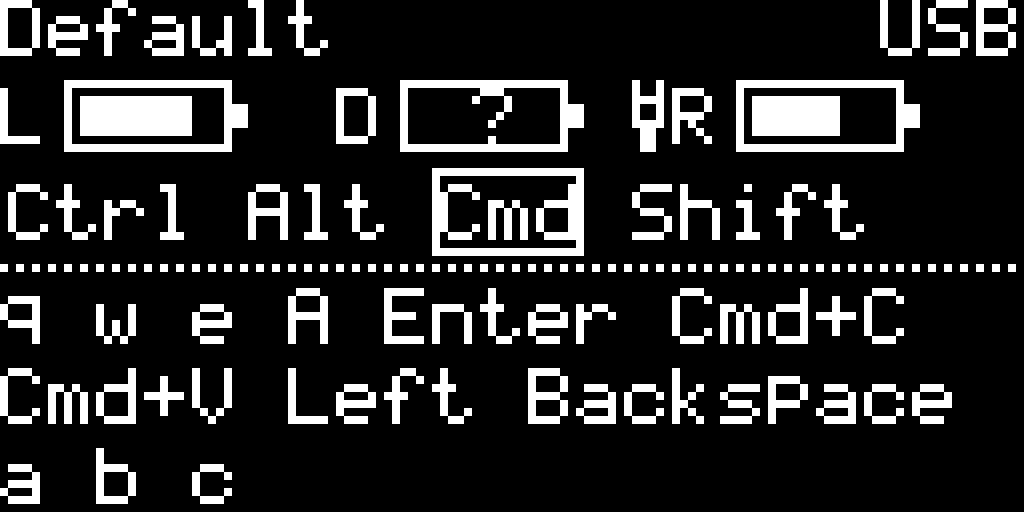
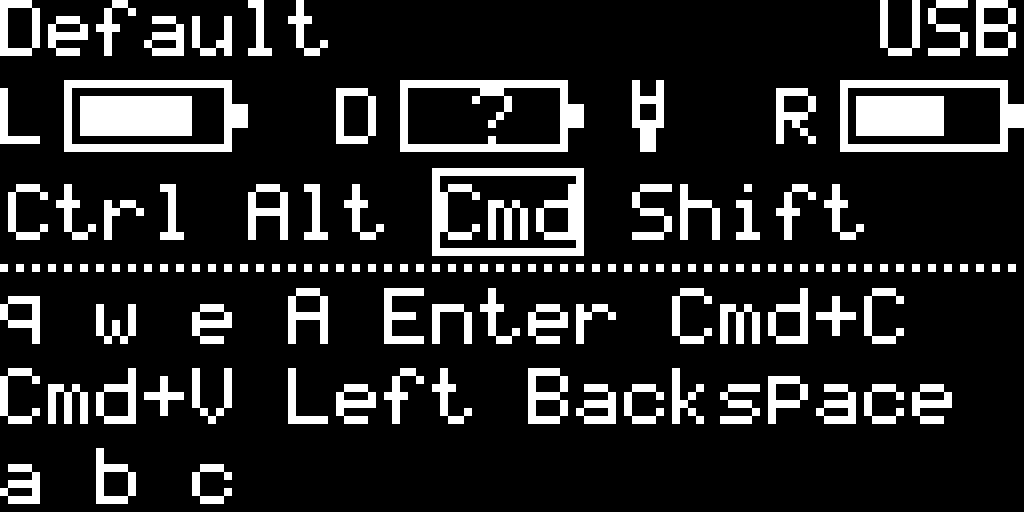
fix: прижать аккумулятор правой половинки к краю экрана

Changed region(s): [[0.6562, 0.1562, 1.0, 0.3125]]

diff --git a/boards/shields/corne_dongle_display/screen_model.c b/boards/shields/corne_dongle_display/screen_model.c
@@ -168,7 +168,10 @@ static void battery(uint8_t *f, int x, char label, struct corne_battery b) {
     } else {
         int level = b.level > 100 ? 100 : b.level;
         rect(f, x+10, 12, (17 * level + 50) / 100, 5, true);
-        if (level <= 20) text(f, x+31, 11, "!", 1);
+        if (level <= 20) {
+            int alert_x = x + 36 <= CORNE_SCREEN_WIDTH ? x + 31 : x - 6;
+            text(f, alert_x, 11, "!", 1);
+        }
     }
 }
 
@@ -181,7 +184,7 @@ void corne_screen_render(const struct corne_screen *s, uint8_t frame[CORNE_FRAME
     text(frame, 128 - (int)strlen(output) * 6, 0, output, 7);
     battery(frame, 0, 'L', s->batteries[0]);
     battery(frame, 42, 'D', s->batteries[1]);
-    battery(frame, 84, 'R', s->batteries[2]);
+    battery(frame, CORNE_SCREEN_WIDTH - 31, 'R', s->batteries[2]);
     if (s->usb_powered) {
         /* A separate cable/plug marker, never a charging lightning bolt. */
         rect(frame, 79, 12, 4, 4, false);

diff --git a/tests/test_screen.c b/tests/test_screen.c
@@ -106,7 +106,13 @@ static void test_pixels(void) {
     }
     assert(!lit(guarded.frame, 10, 12)); /* empty at 0% */
     assert(lit(guarded.frame, 52, 12) && !lit(guarded.frame, 56, 12)); /* 20% */
-    assert(lit(guarded.frame, 94, 12) && lit(guarded.frame, 110, 12)); /* full */
+    assert(lit(guarded.frame, 107, 12) && lit(guarded.frame, 123, 12)); /* full */
+    assert(lit(guarded.frame, 127, 13)); /* terminal reaches the right edge */
+    s.batteries[2].level = 0;
+    corne_screen_render(&s, guarded.frame);
+    assert(lit(guarded.frame, 93, 11)); /* low-charge warning stays visible before R */
+    s.batteries[2].level = 100;
+    corne_screen_render(&s, guarded.frame);
     uint8_t known[1024];
     memcpy(known, guarded.frame, sizeof(known));
     s.batteries[0].known = false;

diff --git a/README.md b/README.md
@@ -97,6 +97,7 @@ CONFIG_ZMK_BLE=y
 Это результат отрисовки тем же кодом, который используется в прошивке; заряды на картинке условные, аккумулятор донгла пока обозначен `?`. [Согласованный визуальный эскиз](docs/dongle-screen-concept.png) служит ориентиром, а не точным снимком OLED
 
 - Аккумуляторы изображены контуром со сплошным заполнением; при уровне до 20% включительно рядом появляется `!`
+- `R` вместе с аккумулятором прижат к правому краю, с зазором до вилки донгла; его предупреждение `!` появляется перед `R`, чтобы не обрезаться
 - `?` внутри аккумулятора — ещё нет достоверного показания; `x` — половинка не подключена
 - Левая и правая половинки соответствуют источникам BLE 0 и 1, как у прежнего модуля; фактическое соответствие проверяется после сопряжения
 - Вилка рядом с `D` означает наличие USB-питания, в том числе от зарядки; она не утверждает, что аккумулятор заряжается
